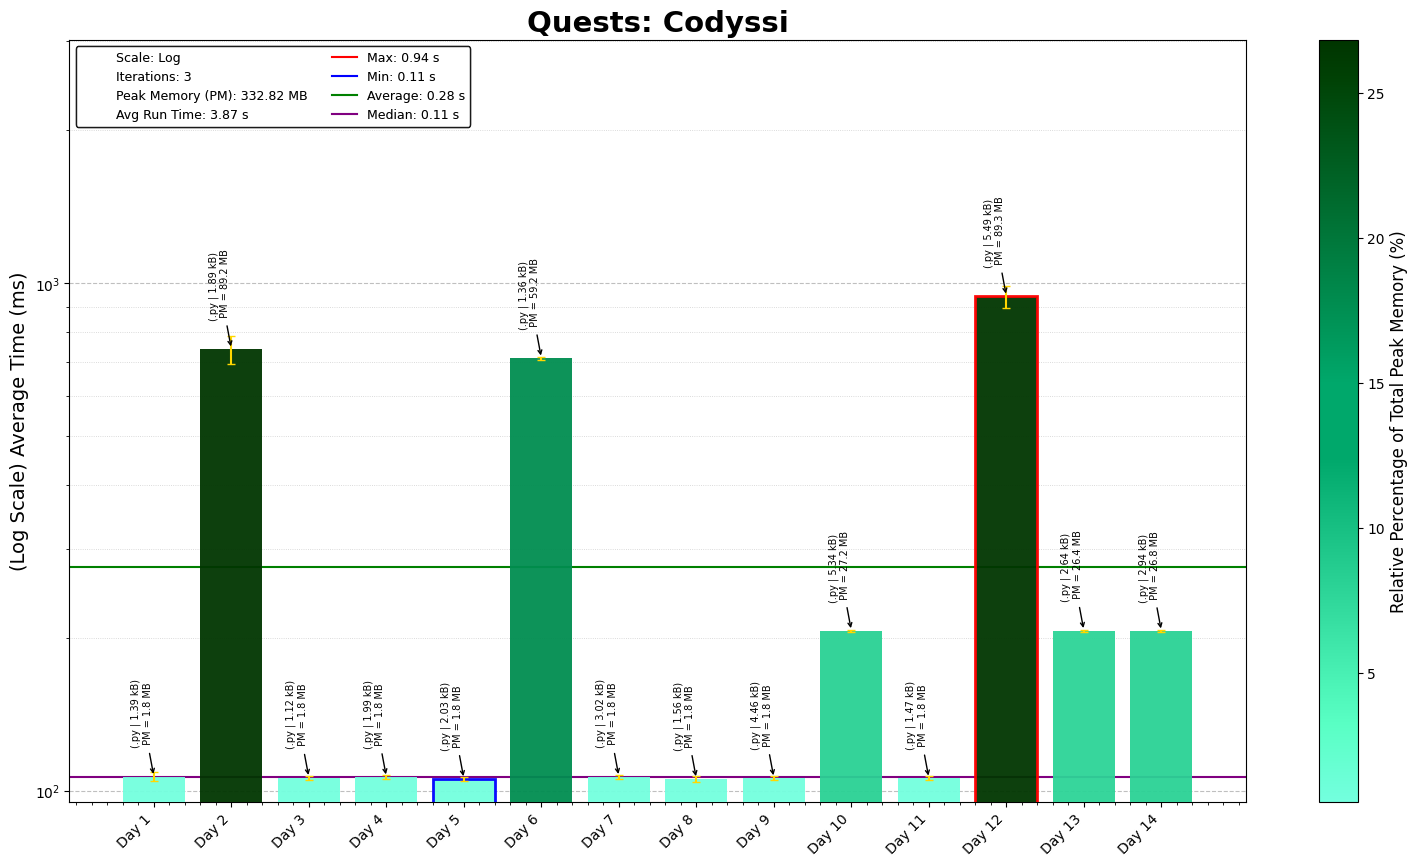
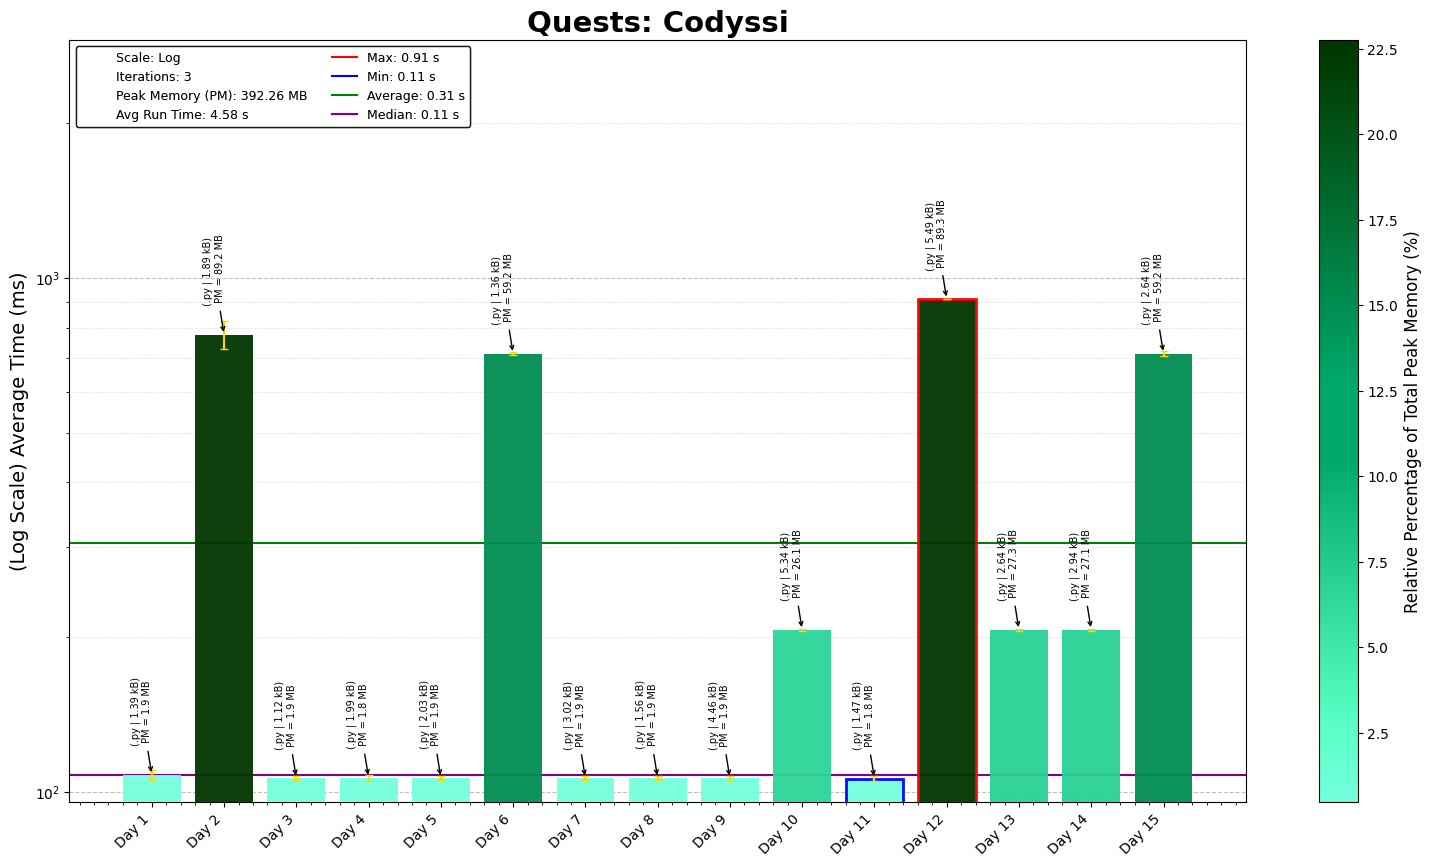
Codyssi Day 15 P1

diff --git a/Codyssi/2025/15/CodyssiDay15.py b/Codyssi/2025/15/CodyssiDay15.py
@@ -20,48 +20,49 @@ D15_file_path = os.path.join(os.path.dirname(os.path.abspath(__file__)), D15_fil
 # Read and sort input data into a grid
 with open(D15_file_path) as file:
     input_data = file.read().strip().split('\n\n')
-    artifact_list = [(nam, int(val)) for idx, line in enumerate(input_data[0].split('\n') )for nam, val in [line.split(' | ')]]
+    artifact_dict = {nam: int(val) for idx, line in enumerate(input_data[0].split('\n') )for nam, val in [line.split(' | ')]}
     artifact_list1 = [(nam, int(val)) for line in input_data[1].split('\n') for nam, val in [line.split(' | ')]]
 
 class Archaeologist:
     def __init__(self, artifacts: list[tuple]):
-        self.artifact_list = artifacts
-        self.artifact_dict = {val: name for name, val in artifacts}
+        self.artifact_dict = artifacts
 
-    def __compare_nodes(self, artifact, root_node, layer):
-        code, id_val = artifact
-        print(self.tree)
-        if id_val < root_node[1]:
-            print("left", code, id_val)
-            # if 
-            self.tree[root_node[0]]["left"].append(code)
-        elif id_val > root_node[1]:
-            print("right", code, id_val)
+    def __compare_nodes(self, art_code, root_code, layer):
+        id_val = self.artifact_dict[art_code]
+        root_id = self.artifact_dict[root_code]
+
+        direction = "left" if id_val < root_id else "right" if id_val > root_id else None
+
+        if direction:
+            if not self.branch_network[root_code][direction]:
+                # Insert new node
+                self.branch_network[root_code][direction].append(art_code)
+                self.branch_network[art_code] = {"left": [], "right": []}
+                self.tree_layers.setdefault(layer + 1, []).append(self.artifact_dict[art_code])
+            else:
+                # Recurse to next level
+                child_code = self.branch_network[root_code][direction][0]
+                self.__compare_nodes(art_code, child_code, layer + 1)
         else:
-            self.tree[code] = {"left": [], "right": []}
-            print(code, id_val)
-        return
+            # Equal ID value, insert at current level if not already present
+            if art_code not in self.branch_network:
+                self.branch_network[art_code] = {"left": [], "right": []}
+                self.tree_layers.setdefault(layer, []).append(self.artifact_dict[art_code])
 
     def build_tree(self):
-        root_node = self.artifact_list[0]
-        self.tree = {}
-        for artifact in self.artifact_list[:2]:
+        root_node = next(iter(self.artifact_dict))
+        self.branch_network = {}
+        self.tree_layers = {}
+        for artifact in self.artifact_dict.keys():
             self.__compare_nodes(artifact, root_node, 1)
-        print(self.tree)
-        return len(self.tree)
 
-expedition = Archaeologist(artifact_list)
+        layer_sum = [sum(branch) for branch in self.tree_layers.values()]
+        return len(self.tree_layers) * max(layer_sum)
+
+expedition = Archaeologist(artifact_dict)
 
 layered_tree = expedition.build_tree()
 print("Part 1:", layered_tree)
 
 print(f"Execution Time = {time.time() - start_time:.5f}s")
 
-
-# There are 15 artifacts in this list (the last two lines are ignored).
-# The first layer of the storage system will hold 1 artifact (ID 576690).
-# The second layer of the storage system will hold 2 artifacts (IDs 323352 and 747973).
-# The third layer of the storage system will hold 4 artifacts (IDs 55528, 422646, 661714, and 967749).
-# The fourth layer of the storage system will hold 4 artifacts (IDs 9047, 200543, 548306, and 960026).
-# The fifth layer of the storage system will hold 3 artifacts (IDs 314969, 493637, and 833936).
-# The sixth layer of the storage system will hold 1 artifact (ID 499862).

diff --git a/Codyssi/2025/README_Codyssi2025.md b/Codyssi/2025/README_Codyssi2025.md
@@ -17,5 +17,5 @@
 12. **Problem 12 - Challenging the Whirlpool**: Performing a series of ADD/SUB/MULT ops on a grid of numbers, and then manipulating the instruction list based on control actions.
 13. **Problem 13 - Laestrygonian Guards**: Identifying paths between various destinations, and sorting based on lengths.
 14. **Problem 14 - Crucial Crafting**: Synthesising products based on different properties of materials, finding optimum combinations.
-15. **Problem 15 - Artifacts at Atlantis**:
+15. **Problem 15 - Artifacts at Atlantis**: Build a network of connected artifacts, and navigate across the layers to achieve desired goals.
 ---
